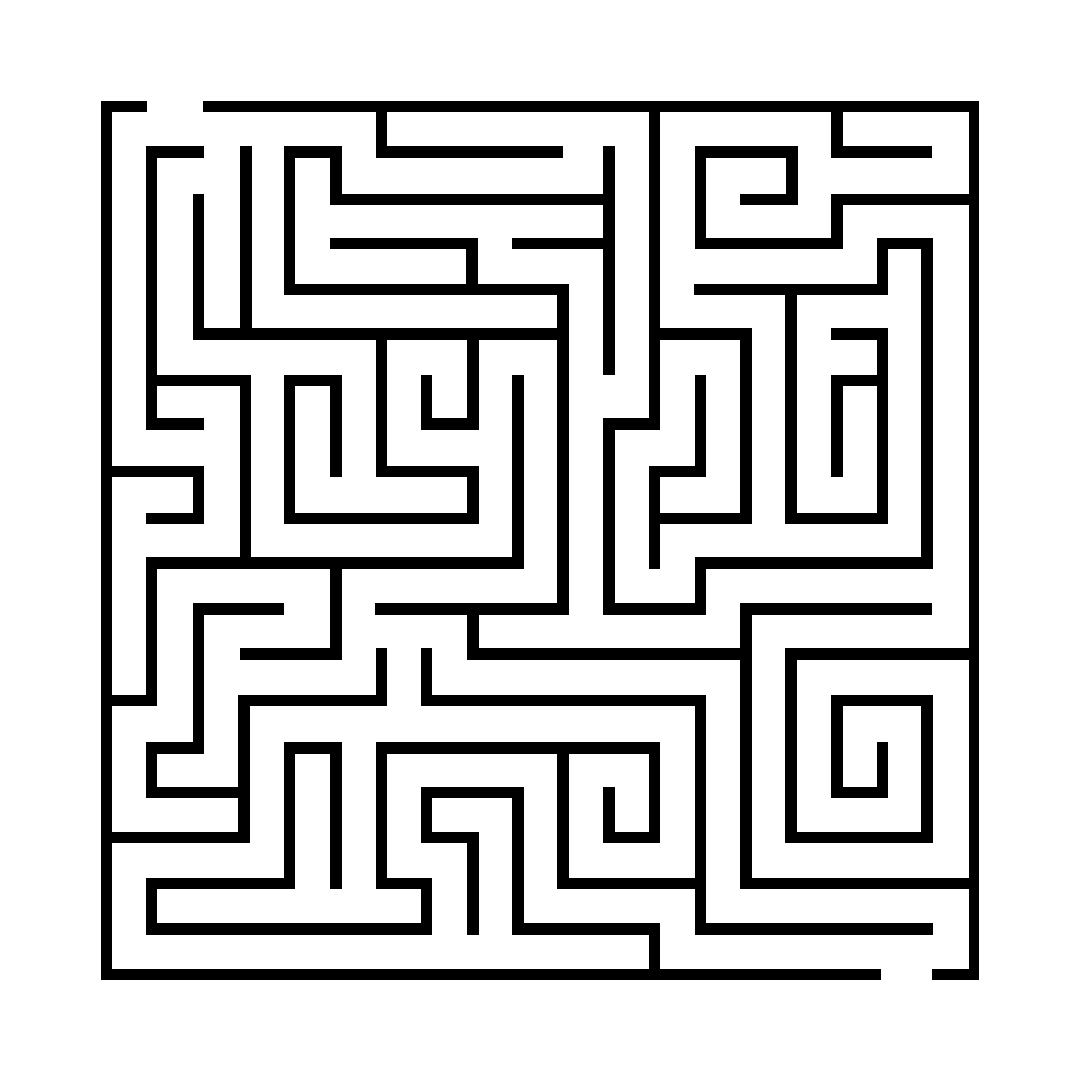
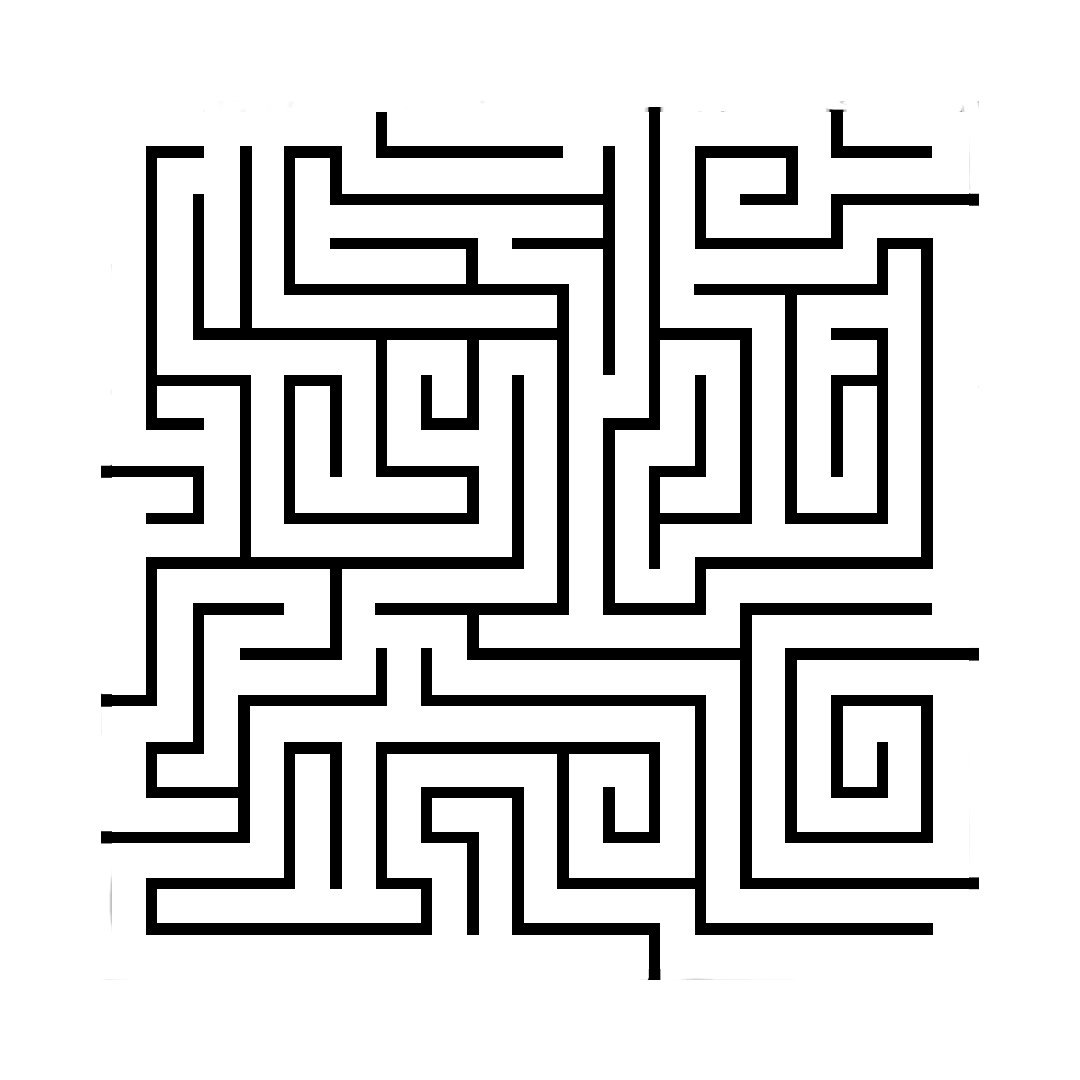
mapas novos

Changed region(s): [[0.1833, 0.0917, 0.9167, 0.9167], [0.0917, 0.0917, 0.825, 0.9167]]

diff --git a/Labirinto.py b/Labirinto.py
@@ -34,6 +34,7 @@ verdelimao = (15, 255, 149)
 vermelho = (255, 49, 46)
 azul = (72, 172, 240)
 rosa = (252, 24, 152)
+roxo = (27, 20, 100)
 
 # Carregando fonte
 fonte = pygame.font.Font('Gamer.ttf', 55)
@@ -131,7 +132,21 @@ mapa2 = pygame.transform.scale(mapa2, (575, 575))
 
 # imagem do mapa 3
 mapa3 = pygame.image.load(os.path.join(diretorio_imagens, 'mapa3.png'))
-mapa3 = pygame.transform.scale(mapa3, (465,465))
+mapa3 = pygame.transform.scale(mapa3, (465, 465))
+
+# imagem do mapa 4
+mapa4 = pygame.image.load(os.path.join(diretorio_imagens, 'mapa4.png'))
+mapa4 = pygame.transform.scale(mapa4, (465, 465))
+
+# imagem da chegada
+chegada = pygame.image.load(os.path.join(diretorio_imagens, 'chegada.png'))
+chegada = pygame.transform.scale(chegada, (16, 16))
+rectChegada = chegada.get_rect()
+
+# imagem do jogador
+jogadorImagem = pygame.image.load(os.path.join(diretorio_imagens, 'jogador.png'))
+rectJogador = jogadorImagem.get_rect()
+
 
 # Posiçao do jogador
 jogadorX = 25 
@@ -182,6 +197,7 @@ for x in range(500): # pega as coordenadas de cada pixel preto do mapa
 lista2X = []
 lista2Y = []
 
+
 janela.fill(azul)
 
 janela.blit(mapa2, (-38,-38))
@@ -190,6 +206,7 @@ for x in range(500):
         if janela.get_at((x,y)) == preto:
             lista2X.append(x)
             lista2Y.append(y)
+            
 
 lista3X = []
 lista3Y = []
@@ -204,6 +221,19 @@ for x in range(500):
             lista3X.append(x)
             lista3Y.append(y)
 
+lista4X = []
+lista4Y = []
+
+janela.fill(azul)
+
+desenharMapa(mapa4, 16, 16)
+
+for x in range(500):
+    for y in range(500):
+        if janela.get_at((x,y)) == preto:
+            lista4X.append(x)
+            lista4Y.append(y)
+#------------------------------------------------------------------------------------------------------
 # Game loop, para a janela nao sumir rapidamente e o jogo permanecer rodando. Sem o while o programa fecha, por isso, quando apertar o botao fechar (pygame.QUIT), ele quebra o while e a janela encerra
 sair = False
 while sair != True: #CÓDIGO REFERENTE AO MAPA 1
@@ -217,7 +247,7 @@ while sair != True: #CÓDIGO REFERENTE AO MAPA 1
 
     jogador = pygame.Rect(jogadorX, jogadorY, 14, 14)
 
-    chegada = pygame.Rect(chegadaX, chegadaY, 14, 14)
+    #chegada = pygame.Rect(chegadaX, chegadaY, 14, 14)
 
     bala1 = pygame.Rect(bala1X, bala1Y, 10, 10)
     bala2 = pygame.Rect(bala2X, bala2Y, 10, 10)
@@ -226,11 +256,16 @@ while sair != True: #CÓDIGO REFERENTE AO MAPA 1
     for i in range(len(listaX)):
         janela.set_at((listaX[i], listaY[i]), branco)
         
-   
-    pygame.draw.rect(janela, vermelho, (jogador)) # desenha meu jogador
+    rectChegada.x = chegadaX
+    rectChegada.y = chegadaY
 
-    pygame.draw.rect(janela, azul, (chegada)) # desenha minha chegada
-
+    rectJogador.x = jogadorX
+    rectJogador.y = jogadorY
+    #pygame.draw.rect(janela, vermelho, (jogador)) # desenha meu jogador
+    janela.blit(jogadorImagem, rectJogador)
+    janela.blit(chegada, rectChegada)
+    #pygame.draw.rect(janela, azul, (chegada)) # desenha minha chegada
+    
     pygame.draw.rect(janela, rosa, (bala1)) # desenha a bala do canhao 1
     pygame.draw.rect(janela, rosa, (bala2)) # desenha a bala do canhao 2
     pygame.draw.rect(janela, rosa, (bala3)) # desenha a bala do canhao 3
@@ -254,6 +289,8 @@ while sair != True: #CÓDIGO REFERENTE AO MAPA 1
                 jogadorMudançaX = - velocidade
             if event.key == pygame.K_RIGHT:
                 jogadorMudançaX = velocidade
+                jogadorImagem = pygame.transform.flip(jogadorImagem, False, False)
+                janela.blit(jogadorImagem, rectJogador)                
             if event.key == pygame.K_UP:
                 jogadorMudançaY = - velocidade
             if event.key == pygame.K_DOWN:
@@ -331,7 +368,7 @@ while sair != True: #CÓDIGO REFERENTE AO MAPA 1
     if jogadorX >= 462:
         jogadorX = 462
 
-    if jogador.colliderect(chegada):
+    if jogador.colliderect(rectChegada):
         # Tela antes do proximo mapa
         janela.fill(preto)
         texto2 = fonte.render('Nível 2', True, branco)
@@ -345,10 +382,10 @@ while sair != True: #CÓDIGO REFERENTE AO MAPA 1
         chegadaX = 462
         chegadaY = 462
 
-        velocidade = 4
+        velocidade = 3
 
         while sair != True: #Código do mapa 2
-            janela.fill(verdelimao)
+            janela.fill(branco)
             
             janela.blit(mapa2, (-38,-38))
 
@@ -361,10 +398,10 @@ while sair != True: #CÓDIGO REFERENTE AO MAPA 1
 
             pygame.draw.rect(janela, preto, (chegada)) # desenha minha chegada
             
-            pygame.draw.line(janela, branco, [16,20], [484,20], espessura) # barra horizontal superior
-            pygame.draw.line(janela, branco, [20,20], [20, 480], espessura) # barra na vertical esquerda
-            pygame.draw.line(janela, branco, [480,20], [480,480], espessura) # barra vertical direita
-            pygame.draw.line(janela, branco, [16,480], [484,480], espessura) # barra horizontal inferior
+            pygame.draw.line(janela, preto, [16,20], [484,20], espessura) # barra horizontal superior
+            pygame.draw.line(janela, preto, [20,20], [20, 480], espessura) # barra na vertical esquerda
+            pygame.draw.line(janela, preto, [480,20], [480,480], espessura) # barra vertical direita
+            pygame.draw.line(janela, preto, [16,480], [484,480], espessura) # barra horizontal inferior
 
             for event in pygame.event.get(): # evento de fechar o jogo
                 if event.type == pygame.QUIT:
@@ -387,12 +424,19 @@ while sair != True: #CÓDIGO REFERENTE AO MAPA 1
             jogadorX += jogadorMudançaX
             jogadorY += jogadorMudançaY
 
+            criarCoracao(coracaoImagem1, coracao1X, coracao1Y)
+            criarCoracao(coracaoImagem2, coracao2X, coracao2Y)
+            criarCoracao(coracaoImagem3, coracao3X, coracao3Y)
+            criarCoracao(coracaoImagem4, coracao4X, coracao4Y)
+            criarCoracao(coracaoImagem5, coracao5X, coracao5Y)
+
             # colisao com as paredes
             for i in range(len(lista2X)):
                 if pygame.Rect(jogadorX, jogadorY, 13, 13).collidepoint(lista2X[i], lista2Y[i]):
                     jogadorX -= jogadorMudançaX
-                    jogadorY -= jogadorMudançaY 
-                    clock.tick(60)
+                    jogadorY -= jogadorMudançaY
+                    
+                    
 
 
             # Barreiras  #usar funçao 
@@ -409,13 +453,13 @@ while sair != True: #CÓDIGO REFERENTE AO MAPA 1
                 jogadorX = 452
                 jogadorY = 25
 
-                chegadaX = 400
-                chegadaY = 50
+                chegadaX = 462
+                chegadaY = 462
 
                 velocidade = 2
 
-                while sair != True: #Código do mapa 2
-                    janela.fill(branco)
+                while sair != True: #Código do mapa 3
+                    janela.fill(roxo)
                     
                     desenharMapa(mapa3, 16, 16)
                     
@@ -427,12 +471,12 @@ while sair != True: #CÓDIGO REFERENTE AO MAPA 1
 
                     pygame.draw.rect(janela, vermelho, (jogador)) # desenha meu jogador
 
-                    pygame.draw.rect(janela, azul, (chegada)) # desenha minha chegada
+                    pygame.draw.rect(janela, branco, (chegada)) # desenha minha chegada
                     
-                    pygame.draw.line(janela, preto, [16,20], [484,20], espessura) # barra horizontal superior
-                    pygame.draw.line(janela, preto, [20,20], [20, 480], espessura) # barra na vertical esquerda
-                    pygame.draw.line(janela, preto, [480,20], [480,480], espessura) # barra vertical direita
-                    pygame.draw.line(janela, preto, [16,480], [484,480], espessura) # barra horizontal inferior
+                    pygame.draw.line(janela, azul, [16,20], [484,20], espessura) # barra horizontal superior
+                    pygame.draw.line(janela, azul, [20,20], [20, 480], espessura) # barra na vertical esquerda
+                    pygame.draw.line(janela, azul, [480,20], [480,480], espessura) # barra vertical direita
+                    pygame.draw.line(janela, azul, [16,480], [484,480], espessura) # barra horizontal inferior
 
                     for event in pygame.event.get(): # evento de fechar o jogo
                         if event.type == pygame.QUIT:
@@ -475,7 +519,76 @@ while sair != True: #CÓDIGO REFERENTE AO MAPA 1
                     if jogadorX == chegadaX and jogadorY == chegadaY:
                         jogadorX = 452
                         jogadorY = 25
-                        sair = True
+
+                        chegadaX = 25
+                        chegadaY = 25
+                        
+                        while sair != True: #Código do mapa 4
+                            janela.fill(branco)
+                            
+                            desenharMapa(mapa4, 16, 16)
+                            
+
+                            
+                            
+                            
+
+
+                            pygame.draw.circle(janela, vermelho, (jogadorX, jogadorY), 8) # desenha meu jogador
+
+                            pygame.draw.circle(janela, azul, (chegadaX, chegadaY), 8) # desenha minha chegada
+                            
+                            pygame.draw.line(janela, preto, [16,20], [484,20], espessura) # barra horizontal superior
+                            pygame.draw.line(janela, preto, [20,20], [20, 480], espessura) # barra na vertical esquerda
+                            pygame.draw.line(janela, preto, [480,20], [480,480], espessura) # barra vertical direita
+                            pygame.draw.line(janela, preto, [16,480], [484,480], espessura) # barra horizontal inferior
+
+                            for event in pygame.event.get(): # evento de fechar o jogo
+                                if event.type == pygame.QUIT:
+                                    sair = True
+                                if event.type == pygame.KEYDOWN: # evento das teclas
+                                    if event.key == pygame.K_LEFT:
+                                        jogadorMudançaX = - velocidade
+                                    if event.key == pygame.K_RIGHT:
+                                        jogadorMudançaX = velocidade
+                                    if event.key == pygame.K_UP:
+                                        jogadorMudançaY = - velocidade
+                                    if event.key == pygame.K_DOWN:
+                                        jogadorMudançaY = velocidade
+                                if event.type == pygame.KEYUP:
+                                    if event.key == pygame.K_LEFT or event.key == pygame.K_RIGHT:
+                                        jogadorMudançaX = 0
+                                    if event.key == pygame.K_UP or event.key == pygame.K_DOWN:
+                                        jogadorMudançaY = 0
+                            
+                            jogadorX += jogadorMudançaX
+                            jogadorY += jogadorMudançaY
+
+                            # colisao com as paredes
+                            for i in range(len(lista4X)):
+                                if pygame.Rect(jogadorX, jogadorY, 7, 7).collidepoint(lista4X[i], lista4Y[i]):
+                                    jogadorX -= jogadorMudançaX
+                                    jogadorY -= jogadorMudançaY
+
+
+                            # Barreiras  #usar funçao 
+                            if jogadorY <= 25:
+                                jogadorY = 25
+                            if jogadorY >= 462:
+                                jogadorY = 462
+                            if jogadorX <= 25:
+                                jogadorX = 25
+                            if jogadorX >= 462:
+                                jogadorX = 462
+
+                            if jogadorX == chegadaX and jogadorY == chegadaY:
+                                jogadorX = 452
+                                jogadorY = 25
+                                sair = True
+
+                            pygame.display.flip() # atualiza a tela 
+                            clock.tick(60)
+
 
                     pygame.display.flip() # atualiza a tela 
                     clock.tick(60)
